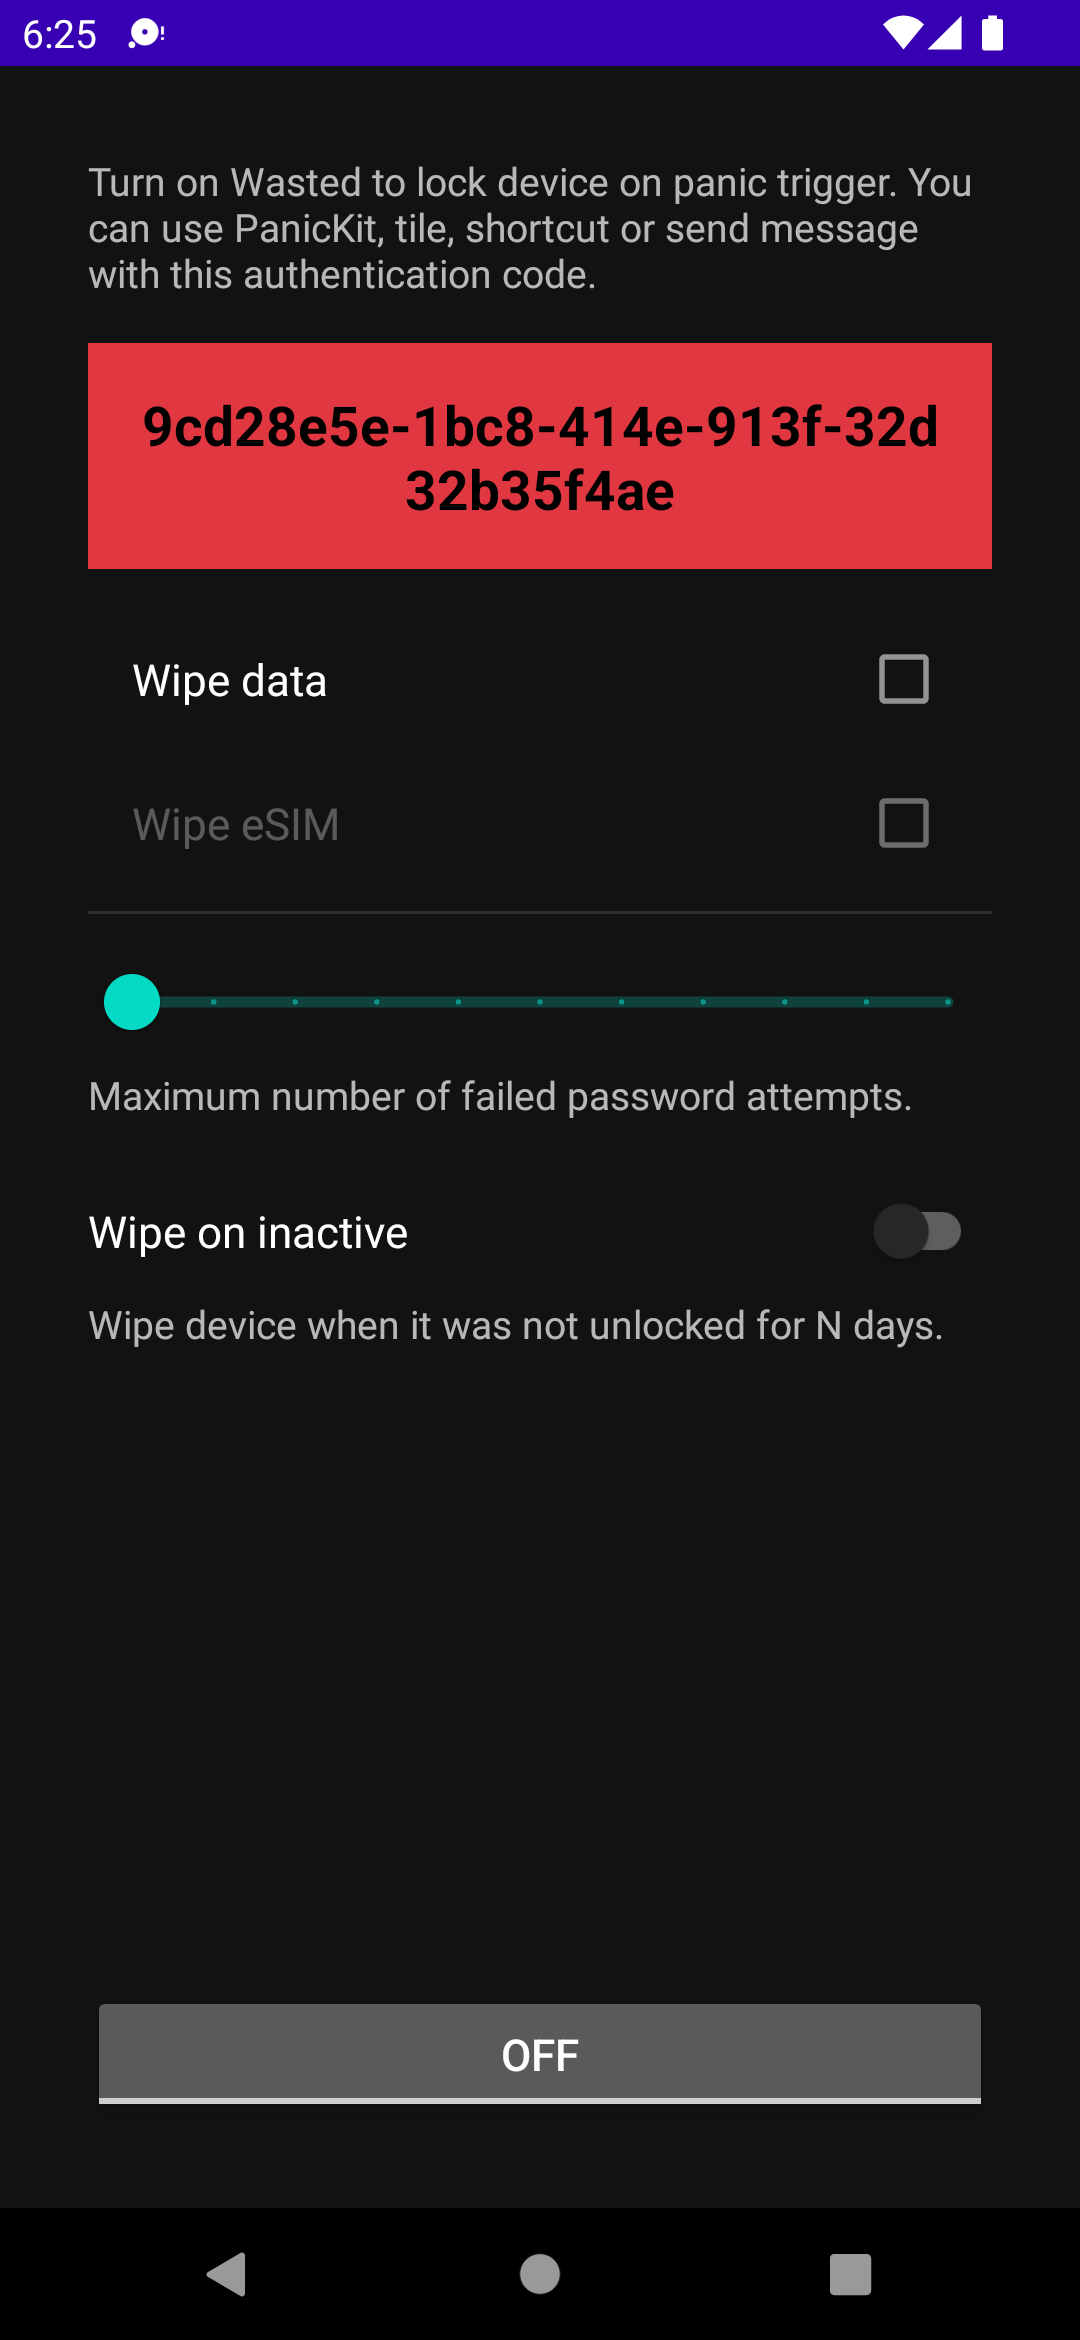
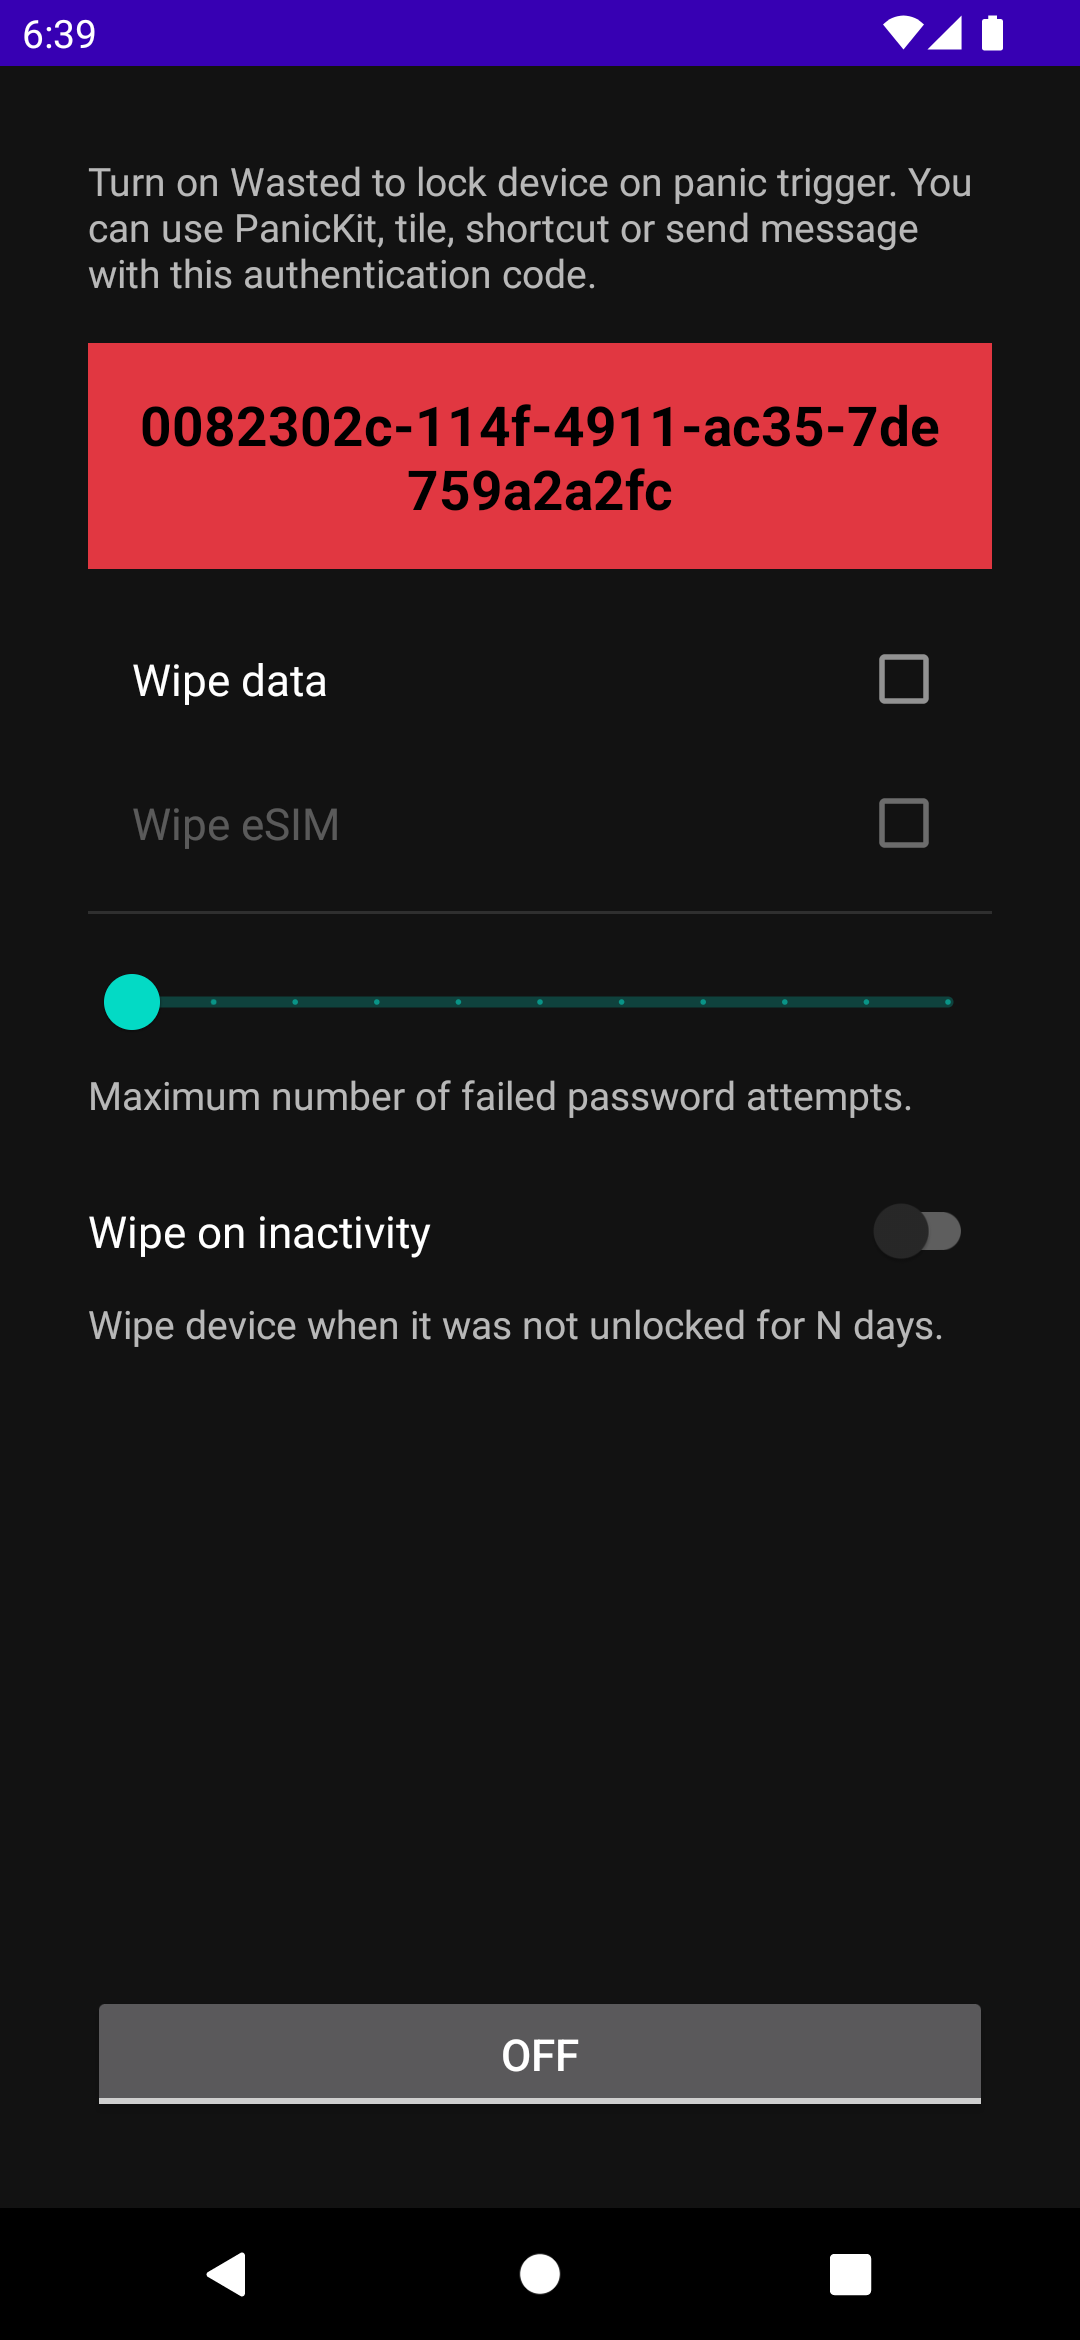
ref

diff --git a/app/src/main/java/me/lucky/wasted/MainActivity.kt b/app/src/main/java/me/lucky/wasted/MainActivity.kt
@@ -64,7 +64,7 @@ open class MainActivity : AppCompatActivity() {
             wipeESIM.isChecked = prefs.isWipeESIM
             wipeESIM.isEnabled = wipeData.isChecked
             maxFailedPasswordAttempts.value = prefs.maxFailedPasswordAttempts.toFloat()
-            wipeOnInactiveSwitch.isChecked = prefs.isWipeOnInactive
+            wipeOnInactivitySwitch.isChecked = prefs.isWipeOnInactivity
             toggle.isChecked = prefs.isServiceEnabled
         }
     }
@@ -91,17 +91,17 @@ open class MainActivity : AppCompatActivity() {
             maxFailedPasswordAttempts.addOnChangeListener { _, value, _ ->
                 prefs.maxFailedPasswordAttempts = value.toInt()
             }
-            wipeOnInactiveSwitch.setOnCheckedChangeListener { _, isChecked ->
-                if (!setWipeOnInactiveComponentsState(prefs.isServiceEnabled && isChecked)) {
-                    wipeOnInactiveSwitch.isChecked = false
+            wipeOnInactivitySwitch.setOnCheckedChangeListener { _, isChecked ->
+                if (!setWipeOnInactivityComponentsState(prefs.isServiceEnabled && isChecked)) {
+                    wipeOnInactivitySwitch.isChecked = false
                     showWipeJobServiceStartFailedPopup()
                     return@setOnCheckedChangeListener
                 }
-                prefs.isWipeOnInactive = isChecked
+                prefs.isWipeOnInactivity = isChecked
 
             }
-            wipeOnInactiveSwitch.setOnLongClickListener {
-                showWipeOnInactiveSettings()
+            wipeOnInactivitySwitch.setOnLongClickListener {
+                showWipeOnInactivitySettings()
                 true
             }
             toggle.setOnCheckedChangeListener { _, isChecked ->
@@ -113,19 +113,19 @@ open class MainActivity : AppCompatActivity() {
         }
     }
 
-    private fun showWipeOnInactiveSettings() {
+    private fun showWipeOnInactivitySettings() {
         val items = arrayOf("1", "2", "3", "5", "7", "10", "15", "30")
-        var days = prefs.wipeOnInactiveDays
+        var days = prefs.wipeOnInactivityDays
         var checked = items.indexOf(days.toString())
         if (checked == -1) checked = items
-            .indexOf(Preferences.DEFAULT_WIPE_ON_INACTIVE_DAYS.toString())
+            .indexOf(Preferences.DEFAULT_WIPE_ON_INACTIVITY_DAYS.toString())
         MaterialAlertDialogBuilder(this)
-            .setTitle(R.string.wipe_on_inactive_days)
+            .setTitle(R.string.wipe_on_inactivity_days)
             .setSingleChoiceItems(items, checked) { _, which ->
                 days = items[which].toInt()
             }
             .setPositiveButton(R.string.ok) { _, _ ->
-                prefs.wipeOnInactiveDays = days
+                prefs.wipeOnInactivityDays = days
             }
             .show()
     }
@@ -137,7 +137,7 @@ open class MainActivity : AppCompatActivity() {
     }
 
     private fun setOn() {
-        if (!setWipeOnInactiveComponentsState(prefs.isWipeOnInactive)) {
+        if (!setWipeOnInactivityComponentsState(prefs.isWipeOnInactivity)) {
             binding.toggle.isChecked = false
             showWipeJobServiceStartFailedPopup()
             return
@@ -158,7 +158,7 @@ open class MainActivity : AppCompatActivity() {
     private fun setOff() {
         prefs.isServiceEnabled = false
         setCodeReceiverState(false)
-        setWipeOnInactiveComponentsState(false)
+        setWipeOnInactivityComponentsState(false)
         shortcut.remove()
         admin.remove()
     }
@@ -185,7 +185,7 @@ open class MainActivity : AppCompatActivity() {
         }
     }
 
-    private fun setWipeOnInactiveComponentsState(value: Boolean): Boolean {
+    private fun setWipeOnInactivityComponentsState(value: Boolean): Boolean {
         val result = job.setState(value)
         if (result) {
             setUnlockServiceState(value)

diff --git a/app/src/main/java/me/lucky/wasted/Preferences.kt b/app/src/main/java/me/lucky/wasted/Preferences.kt
@@ -7,7 +7,7 @@ import androidx.security.crypto.MasterKeys
 
 class Preferences(ctx: Context) {
     companion object {
-        const val DEFAULT_WIPE_ON_INACTIVE_DAYS = 7
+        const val DEFAULT_WIPE_ON_INACTIVITY_DAYS = 7
 
         private const val SERVICE_ENABLED = "service_enabled"
         private const val CODE = "code"
@@ -15,12 +15,14 @@ class Preferences(ctx: Context) {
         private const val WIPE_DATA = "wipe_data"
         private const val WIPE_ESIM = "wipe_esim"
         private const val MAX_FAILED_PASSWORD_ATTEMPTS = "max_failed_password_attempts"
-        private const val WIPE_ON_INACTIVE = "wipe_on_inactive"
-        private const val WIPE_ON_INACTIVE_DAYS = "wipe_on_inactive_days"
+        private const val WIPE_ON_INACTIVITY = "wipe_on_inactivity"
+        private const val WIPE_ON_INACTIVITY_DAYS = "wipe_on_inactivity_days"
 
         private const val FILE_NAME = "sec_shared_prefs"
         // migration
         private const val DO_WIPE = "do_wipe"
+        private const val WIPE_ON_INACTIVE = "wipe_on_inactive"
+        private const val WIPE_ON_INACTIVE_DAYS = "wipe_on_inactive_days"
     }
 
     private val mk = MasterKeys.getOrCreate(MasterKeys.AES256_GCM_SPEC)
@@ -56,11 +58,17 @@ class Preferences(ctx: Context) {
         get() = prefs.getInt(MAX_FAILED_PASSWORD_ATTEMPTS, 0)
         set(value) = prefs.edit { putInt(MAX_FAILED_PASSWORD_ATTEMPTS, value) }
 
-    var isWipeOnInactive: Boolean
-        get() = prefs.getBoolean(WIPE_ON_INACTIVE, false)
-        set(value) = prefs.edit { putBoolean(WIPE_ON_INACTIVE, value) }
+    var isWipeOnInactivity: Boolean
+        get() = prefs.getBoolean(
+            WIPE_ON_INACTIVITY,
+            prefs.getBoolean(WIPE_ON_INACTIVE, false),
+        )
+        set(value) = prefs.edit { putBoolean(WIPE_ON_INACTIVITY, value) }
 
-    var wipeOnInactiveDays: Int
-        get() = prefs.getInt(WIPE_ON_INACTIVE_DAYS, DEFAULT_WIPE_ON_INACTIVE_DAYS)
-        set(value) = prefs.edit { putInt(WIPE_ON_INACTIVE_DAYS, value) }
+    var wipeOnInactivityDays: Int
+        get() = prefs.getInt(
+            WIPE_ON_INACTIVITY_DAYS,
+            prefs.getInt(WIPE_ON_INACTIVE_DAYS, DEFAULT_WIPE_ON_INACTIVITY_DAYS),
+        )
+        set(value) = prefs.edit { putInt(WIPE_ON_INACTIVITY_DAYS, value) }
 }

diff --git a/app/src/main/java/me/lucky/wasted/WipeJobManager.kt b/app/src/main/java/me/lucky/wasted/WipeJobManager.kt
@@ -18,7 +18,7 @@ class WipeJobManager(private val ctx: Context) {
     fun schedule(): Int {
         return jobScheduler.schedule(
             JobInfo.Builder(JOB_ID, ComponentName(ctx, WipeJobService::class.java))
-                .setMinimumLatency(TimeUnit.DAYS.toMillis(prefs.wipeOnInactiveDays.toLong()))
+                .setMinimumLatency(TimeUnit.DAYS.toMillis(prefs.wipeOnInactivityDays.toLong()))
                 .setBackoffCriteria(0, JobInfo.BACKOFF_POLICY_LINEAR)
                 .setPersisted(true)
                 .build()

diff --git a/app/src/main/java/me/lucky/wasted/RestartReceiver.kt b/app/src/main/java/me/lucky/wasted/RestartReceiver.kt
@@ -10,7 +10,7 @@ class RestartReceiver : BroadcastReceiver() {
         if (intent.action != Intent.ACTION_BOOT_COMPLETED &&
             intent.action != Intent.ACTION_MY_PACKAGE_REPLACED) return
         val prefs = Preferences(context)
-        if (!prefs.isServiceEnabled || !prefs.isWipeOnInactive) return
+        if (!prefs.isServiceEnabled || !prefs.isWipeOnInactivity) return
         ContextCompat.startForegroundService(context, Intent(context, UnlockService::class.java))
     }
 }

diff --git a/app/src/main/java/me/lucky/wasted/WipeJobService.kt b/app/src/main/java/me/lucky/wasted/WipeJobService.kt
@@ -6,7 +6,7 @@ import android.app.job.JobService
 class WipeJobService : JobService() {
     override fun onStartJob(params: JobParameters?): Boolean {
         val prefs = Preferences(this)
-        if (!prefs.isServiceEnabled || !prefs.isWipeOnInactive) return false
+        if (!prefs.isServiceEnabled || !prefs.isWipeOnInactivity) return false
         try {
             DeviceAdminManager(this).wipeData()
         } catch (exc: SecurityException) {}
